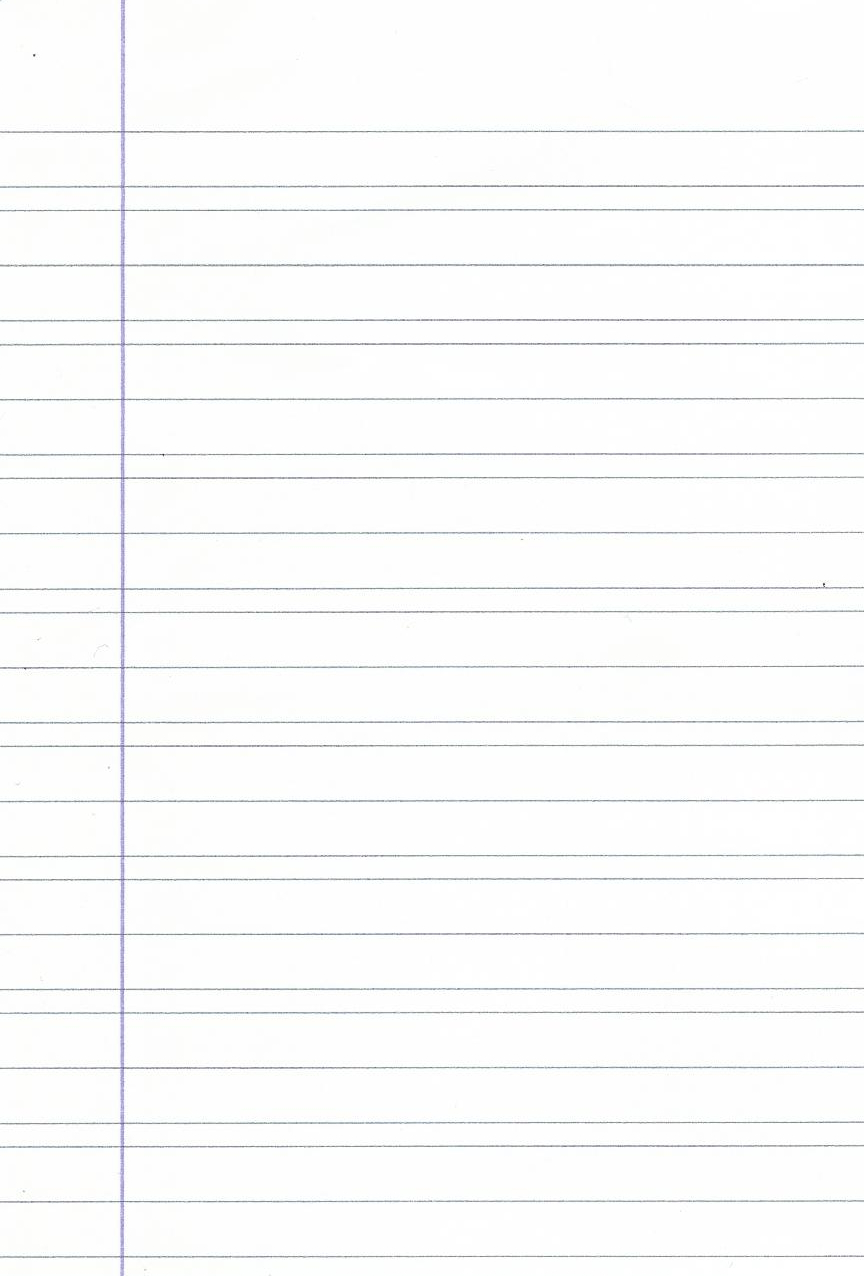
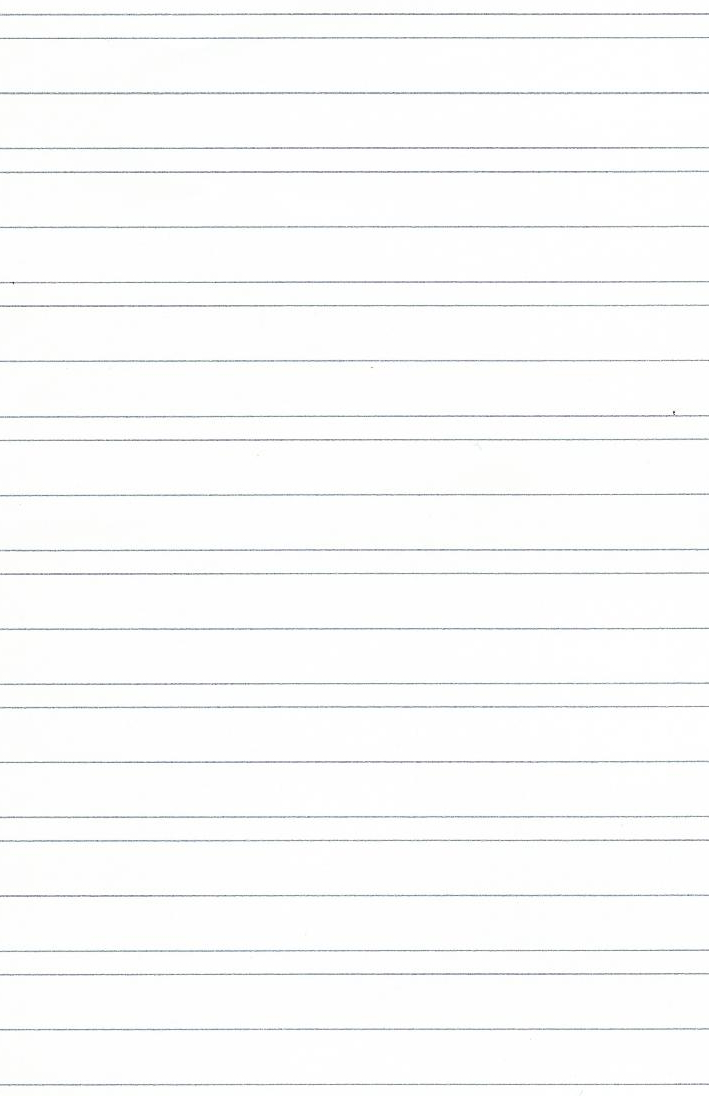
[FIX] Minor style bug

diff --git a/assets/css/style.css b/assets/css/style.css
@@ -29,8 +29,7 @@ margin: 0;
 
 body {
     position: relative;
-    background-image: url("../images/paper_2.png");
-    background-position: -90px 190px;
+    background-image: url("../images/paper_3.png");
     background-repeat: no-repeat;
     background-size: cover;
     width: 100vw;
